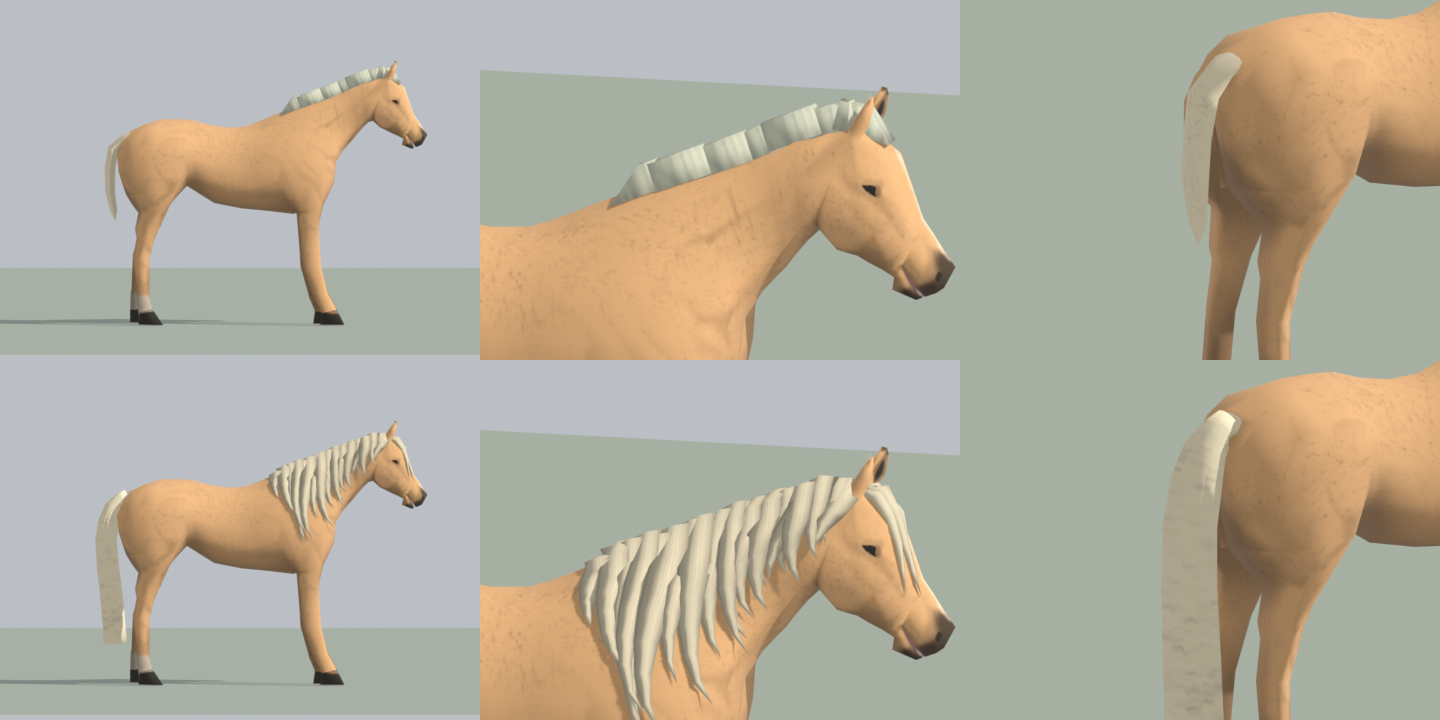
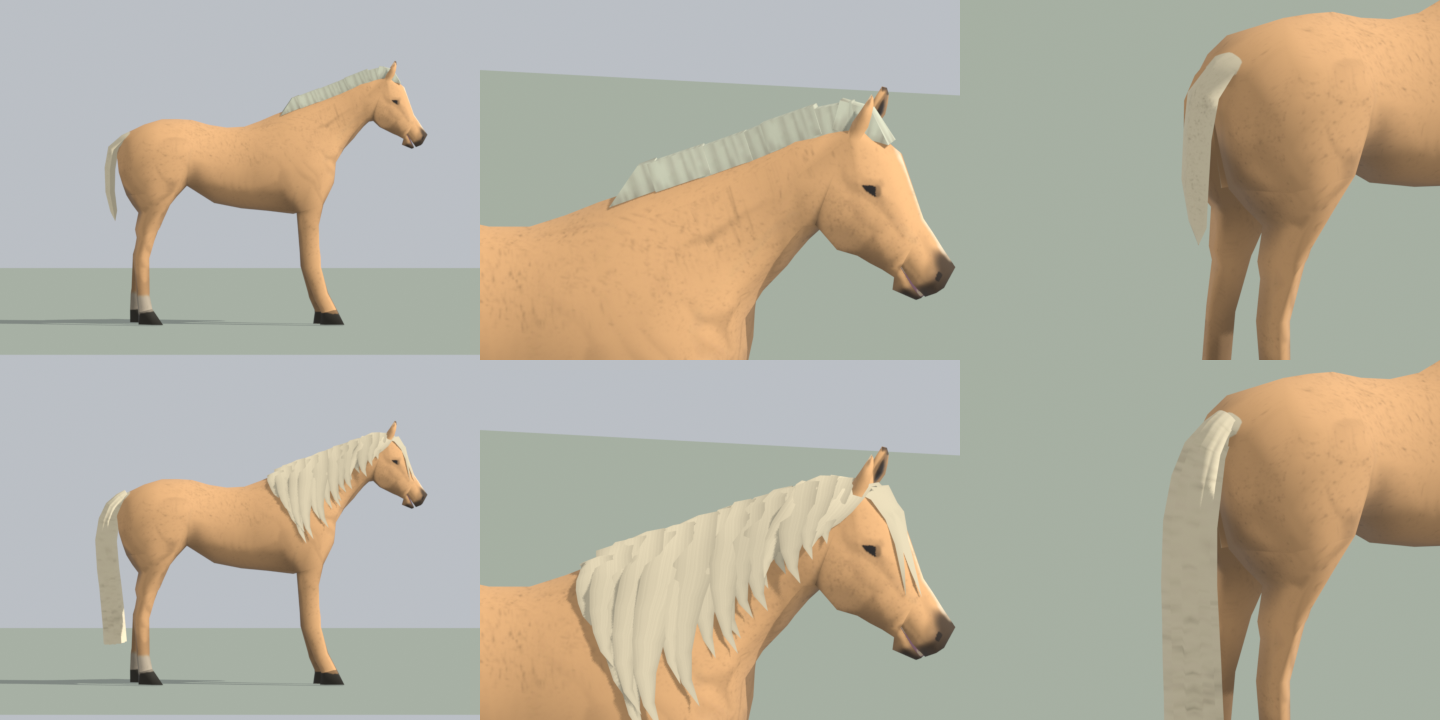
mane shading update

diff --git a/blender/mane.py b/blender/mane.py
@@ -17,7 +17,7 @@ import numpy as np
 
 import glb
 from common import Body, Pose, REFERENCE, MANE_BONES, MANE_FOR_BONE, unit
-from hair import Clump, catmull_rom, merge
+from hair import Clump, catmull_rom
 
 SIDE = -1             # hair falls to -X, the horse's right (off) side
 RINGS = 9             # points along a lock, tip included
@@ -40,9 +40,9 @@ V_CUT = [(0.0, 0.10), (0.30, 0.17), (0.76, 0.33), (1.0, 0.09)]
 LOCKS = {"DEF_ManeStart": [-0.11, -0.05, 0.0, 0.06], "DEF_ManeEnd": [-0.13, -0.08, -0.035]}
 MID_LOCKS = [-0.06, -0.005, 0.05]
 # Every lock gets its own shape from these ranges (seeded, so builds are repeatable):
-LOCK_WIDTH = (0.075, 0.115)   # widest point
-LOCK_SWEEP = (0.30, 0.55)     # how far back along the neck it sweeps, per unit of length
-LOCK_FLICK = (0.04, 0.16)     # how far its tip flicks forwards again, per unit of length
+LOCK_WIDTH = (0.105, 0.145)   # widest point
+LOCK_SWEEP = (0.38, 0.50)     # how far back along the neck it sweeps, per unit of length
+LOCK_FLICK = (0.06, 0.12)     # how far its tip flicks forwards again, per unit of length
 LOCK_JITTER = (-0.05, 0.04)   # added to its hanging length, so the tips are uneven
 SEED = 42
 # the filler under the bend of the locks
@@ -204,7 +204,32 @@ def lock(sections, z_c, length, layer, sweep, flick, width, shape=LOCK_SHAPE, ri
 
     def outward(p, t):
         return unit(np.array([p[0], 0.5 * (p[1] - centre_y), 0.0]))
-    return Clump(path, w, h, across, outward, hair_uv).build()
+    pos, uv, tris = Clump(path, w, h, across, outward, hair_uv).build()
+    return pos, uv, tris, mass_normals(pos, crest)
+
+
+def mass_normals(pos, crest):
+    """Normals of the hair mass rather than of each lock: up on top of the crest, turning
+    to face SIDE (and a little up) down the neck. With every lock's own rounded normals
+    the game's light shades each lock like a shiny tube; with these the locks light
+    together as one soft clump."""
+    k = np.clip((crest - pos[:, 1]) / 0.07, 0, 1)[:, None]
+    top = unit(np.stack([pos[:, 0] / 0.05, np.ones(len(pos)), np.zeros(len(pos))], axis=1))
+    side = unit(np.array([SIDE, 0.25, 0.0]))
+    return unit((1 - k) * top + k * side).astype(np.float32)
+
+
+def merge_with_normals(parts):
+    """Concatenate (positions, uvs, tris, normals) parts into one mesh."""
+    pos, uv, tri, nrm = [], [], [], []
+    base = 0
+    for p, u, t, n in parts:
+        pos.append(p)
+        uv.append(u)
+        tri.append(t + base)
+        nrm.append(n)
+        base += len(p)
+    return np.vstack(pos), np.vstack(uv), np.vstack(tri), np.vstack(nrm)
 
 
 # Forelock locks: (start across the forehead, length down the face, how far round
@@ -241,8 +266,11 @@ def forelock(sections, uv):
 
         def outward(p, t):
             return unit(np.r_[p[:2] - sec.centre(p[2]), 0.0])
-        locks.append(Clump(path, w, h, across, outward, uv).build())
-    return merge(locks)
+        pos, uvs, tris = Clump(path, w, h, across, outward, uv).build()
+        # shaded like the face under it (out from the head), not like a tube
+        normals = np.array([outward(p, None) for p in pos], np.float32)
+        locks.append((pos, uvs, tris, normals))
+    return merge_with_normals(locks)
 
 
 def solve_length(sections, M, z, target_y, layer, sweep, flick):
@@ -293,7 +321,7 @@ def build_pieces():
         filler_len = min(FILLER_LENGTH, 0.7 * min(lengths))
         locks.append(lock(sections, 0.5 * (min(zs) + max(zs)), filler_len, FILLER_LAYER, 0.15, 0.0,
                           span + FILLER_OVERLAP, FILLER_SHAPE, rings=6))
-        pieces[MANE_FOR_BONE[bone]] = merge(locks)
+        pieces[MANE_FOR_BONE[bone]] = merge_with_normals(locks)
     return pieces
 
 

diff --git a/blender/preview.py b/blender/preview.py
@@ -8,7 +8,6 @@ import argparse
 import os
 import sys
 
-import bmesh
 import bpy
 import numpy as np
 
@@ -67,7 +66,8 @@ def material(name, image, tint=None):
     return mat
 
 
-def add_mesh(name, positions, tris, uvs, mat):
+def add_mesh(name, positions, tris, uvs, mat, normals):
+    """Mesh in Blender coordinates, shaded with the file's own normals like the game does."""
     me = bpy.data.meshes.new(name)
     pb = (np.c_[positions, np.ones(len(positions))] @ G2B.T)[:, :3]
     me.from_pydata(pb.tolist(), [], tris.tolist())
@@ -76,12 +76,8 @@ def add_mesh(name, positions, tris, uvs, mat):
     me.loops.foreach_get("vertex_index", loop_vi)
     uvb = np.c_[uvs[:, 0], 1.0 - uvs[:, 1]]
     uvl.data.foreach_set("uv", uvb[loop_vi].reshape(-1))
-    bm = bmesh.new()
-    bm.from_mesh(me)
-    bmesh.ops.remove_doubles(bm, verts=bm.verts, dist=1e-5)
-    bm.to_mesh(me)
-    bm.free()
     me.shade_smooth()
+    me.normals_split_custom_set_from_vertices((np.asarray(normals) @ G2B[:3, :3].T).tolist())
     me.materials.append(mat)
     obj = bpy.data.objects.new(name, me)
     bpy.context.scene.collection.objects.link(obj)
@@ -96,8 +92,9 @@ def build_scene(models, body_name, breed, anim, time):
     pose = Pose(body, anim, time) if anim else Pose(body)
     a = body.attrs
     posed = pose.skin(a["POSITION"].astype(float), a["JOINTS_0"], a["WEIGHTS_0"])
+    posed_normals = pose.skin(a["NORMAL"].astype(float), a["JOINTS_0"], a["WEIGHTS_0"], normals=True)
     body_mat = material("body", os.path.join(HORSE_TEXTURES, f"Horse_{breed}.png"))
-    add_mesh("body", posed, body.indices.reshape(-1, 3), a["TEXCOORD_0"], body_mat)
+    add_mesh("body", posed, body.indices.reshape(-1, 3), a["TEXCOORD_0"], body_mat, posed_normals)
 
     # this mod keeps one mane mesh per bone and its texture next to the HorseMod folder;
     # the Horse mod shares one mesh between the middle bones and uses the vanilla hair texture
@@ -118,7 +115,9 @@ def build_scene(models, body_name, breed, anim, time):
         local[:3, 3] = ATTACH_OFFSET.get(bone, (0, 0, 0))
         M = pose.mats[bone] @ local
         world = (np.c_[pa["POSITION"], np.ones(len(pa["POSITION"]))] @ M.T)[:, :3]
-        add_mesh(bone, world, idx.reshape(-1, 3), pa["TEXCOORD_0"], mane_mat)
+        world_normals = pa["NORMAL"] @ M[:3, :3].T
+        world_normals /= np.linalg.norm(world_normals, axis=1, keepdims=True)
+        add_mesh(bone, world, idx.reshape(-1, 3), pa["TEXCOORD_0"], mane_mat, world_normals)
     # in-game root motion can move the horse; centre it under the cameras
     lowest = posed[:, 1].min()
     for obj in bpy.context.scene.objects:

diff --git a/blender/forelock.py b/blender/forelock.py
@@ -12,15 +12,16 @@ from common import Pose
 
 
 def forelock_part(body, island):
-    """(positions, uvs, tris, joints, weights) of the forelock in the body's bind space."""
+    """(positions, uvs, tris, normals, joints, weights) of the forelock in the body's bind space."""
     frames = mane.bone_frames()
     sections, _, M_end = frames["DEF_ManeEnd"]
-    local, uvs, tris = mane.forelock([sections], island.mapper(2))
+    local, uvs, tris, local_normals = mane.forelock([sections], island.mapper(2))
 
     # where it sits on the idle-posed horse, and the posed skin under it
     pose = Pose(body, *mane.PROFILE_POSE)
     a = body.attrs
     world = (np.c_[local, np.ones(len(local))] @ M_end.T)[:, :3]
+    world_normals = local_normals @ M_end[:3, :3].T
     posed = pose.skin(a["POSITION"].astype(float), a["JOINTS_0"], a["WEIGHTS_0"])
     nearest = np.argmin(np.linalg.norm(posed[None, :, :] - world[:, None, :], axis=2), axis=1)
 
@@ -41,7 +42,10 @@ def forelock_part(body, island):
     # undo the skinning with those same weights to get bind-space positions
     skin = np.stack([pose.mats[n] @ body.ibm[i] for i, n in enumerate(body.joint_names)])
     bind = np.empty_like(world)
+    normals = np.empty_like(world)
     for v in range(len(world)):
-        S = sum(weights[v, k] * skin[joints[v, k]] for k in range(4))
-        bind[v] = (np.linalg.inv(S) @ np.r_[world[v], 1.0])[:3]
-    return bind, uvs, tris, joints, weights
+        S = np.linalg.inv(sum(weights[v, k] * skin[joints[v, k]] for k in range(4)))
+        bind[v] = (S @ np.r_[world[v], 1.0])[:3]
+        n = S[:3, :3] @ world_normals[v]
+        normals[v] = n / np.linalg.norm(n)
+    return bind, uvs, tris, normals.astype(np.float32), joints, weights

diff --git a/blender/mane_texture.py b/blender/mane_texture.py
@@ -37,10 +37,12 @@ def strands():
         c, w, a = rng.uniform(0, SIZE), rng.uniform(0.6, 1.3), rng.uniform(0.3, 1.0)
         d = np.abs((x - c + SIZE / 2) % SIZE - SIZE / 2)
         fine = np.maximum(fine, a * np.exp(-0.5 * (d / w) ** 2))
-    # each lock is darker towards its edges (u = 0 and 1), so neighbouring locks separate
+    # each lock is a little darker towards its edges (u = 0 and 1), so neighbouring locks
+    # separate; kept light, because the tint is multiplied in and a grey texture turns a
+    # white mane grey and makes the locks look like metal
     u = x / SIZE
-    edge = 0.70 + 0.30 * np.sin(np.pi * u) ** 0.7
-    across = (0.88 + 0.12 * fine) * edge
+    edge = 0.88 + 0.12 * np.sin(np.pi * u) ** 0.7
+    across = (0.95 + 0.05 * fine) * edge
 
     v = (np.arange(SIZE) + 0.5) / SIZE
     # strands drift a little sideways along their length so they do not look ruled
@@ -51,7 +53,7 @@ def strands():
         img[row] = np.interp(xs, x, across, period=SIZE)
     # shade the roots, where hair lies under the hair above it
     root = np.clip((v - HAIR_V[0]) / 0.08, 0, 1)
-    img *= (0.78 + 0.22 * root)[:, None]
+    img *= (0.86 + 0.14 * root)[:, None]
     gray = np.clip(img * 255, 0, 255).astype(np.uint8)
     return np.dstack([gray, gray, gray, np.full_like(gray, 255)])
 

diff --git a/blender/build.py b/blender/build.py
@@ -10,7 +10,7 @@ import numpy as np
 
 sys.path.insert(0, os.path.dirname(os.path.abspath(__file__)))
 
-from common import BODIES, MOD_MEDIA, OUT_MANES, OUT_MODELS, REFERENCE, ensure_reference, smooth_normals  # noqa: E402
+from common import BODIES, MOD_MEDIA, OUT_MANES, OUT_MODELS, REFERENCE, ensure_reference  # noqa: E402
 import mane  # noqa: E402
 import mane_texture  # noqa: E402
 import tail  # noqa: E402
@@ -22,9 +22,9 @@ def main():
     os.makedirs(OUT_MANES, exist_ok=True)
     print("texture:", os.path.relpath(mane_texture.build(), MOD_MEDIA))
 
-    for name, (pos, uv, tris) in mane.build_pieces().items():
+    for name, (pos, uv, tris, nrm) in mane.build_pieces().items():
         path = os.path.join(OUT_MANES, name + ".glb")
-        mane.write_piece(path, name, pos, uv, tris, smooth_normals(pos, tris))
+        mane.write_piece(path, name, pos, uv, tris, nrm)
         print(f"{name}: {len(tris)} tris, bounds {np.round(pos.min(0), 3)} .. {np.round(pos.max(0), 3)}")
 
     for body in BODIES:

diff --git a/blender/common.py b/blender/common.py
@@ -117,15 +117,15 @@ class Pose:
         cache = {}
         self.mats = {n: an.world(by_name[n], chans, t, cache) for n in body.joint_names}
 
-    def skin(self, positions, joints, weights):
-        """Linear blend skinning of mesh-space positions."""
+    def skin(self, positions, joints, weights, normals=False):
+        """Linear blend skinning of mesh-space positions (or, with normals=True, directions)."""
         skin_mats = np.stack([self.mats[n] @ self.body.ibm[i] for i, n in enumerate(self.body.joint_names)])
-        hom = np.c_[positions, np.ones(len(positions))]
+        hom = np.c_[positions, np.zeros(len(positions)) if normals else np.ones(len(positions))]
         out = np.zeros((len(positions), 3))
         for k in range(joints.shape[1]):
             m = skin_mats[joints[:, k].astype(int)]
             out += weights[:, k:k + 1] * np.einsum("nij,nj->ni", m, hom)[:, :3]
-        return out
+        return unit(out) if normals else out
 
 
 def unit(v):

diff --git a/blender/tail.py b/blender/tail.py
@@ -279,9 +279,9 @@ def graft(src_path, dst_path, with_forelock=True):
     tnorm = np.vstack([smooth_normals(p, t) for p, _, t in parts])
     tjoints, tweights = skin_weights(body, tpos)
     if with_forelock:
-        fpos, fuv, ftris, fjoints, fweights = forelock_part(body, TailIsland(body))
+        fpos, fuv, ftris, fnorm, fjoints, fweights = forelock_part(body, TailIsland(body))
         ttris = np.vstack([ttris, ftris + len(tpos)])
-        tnorm = np.vstack([tnorm, smooth_normals(fpos, ftris)])
+        tnorm = np.vstack([tnorm, fnorm])
         tpos, tuv = np.vstack([tpos, fpos]), np.vstack([tuv, fuv])
         tjoints, tweights = np.vstack([tjoints, fjoints]), np.vstack([tweights, fweights])
     n_tail = len(tpos)

diff --git a/README.md b/README.md
@@ -33,6 +33,7 @@ Things worth knowing:
 - With one model shared by the five middle bones, a long mane could only be as long everywhere, and the bones near the head tilt differently, so it fanned forwards under the jaw. One model per bone lets every piece fit its own part of the neck, and the V is set as how far each lock's tip hangs below where it roots on the crest (`V_CUT`), solved per lock.
 - Horses do not save their attached items; the Horse mod recreates the manes every session. The per-bone model lives in the mane item's mod data, so nothing of it is saved, and removing this mod brings back the original manes.
 - Every other lock sits a little further out (`LOCK_LAYER`), so overlapping locks stack instead of cutting through each other.
+- The mane and forelock are shaded with the normals of the hair mass, not of each lock (`mass_normals`): up on top of the crest, turning to face the side down the neck, and out from the head for the forelock. With each lock's own rounded normals the game's light shaded every lock like a shiny metal tube; this way they light together as one soft clump. The texture is kept light for the same reason, since the breed tint is multiplied into it.
 - The forelock is in the body mesh rather than on the end mane bone, because that bone turns up to 18° against the head while grazing (10° at the gallop) and lifted the forelock off the face. In the body it is skinned to `DEF_Head`, its root blended into the neck like the skin under it, and it uses the tail strips of the breed texture. Each point is wrapped onto the skin around the head's outline (`NeckSections.wrap`), so it lies on the face even where it flows down the side.
 - Removing the old tail leaves a small opening in the rump; it is capped with two triangles.
 - The tail has only three bones and ends around the hock, so everything below would swing with `DEF_Tail3` like a plank. Its lower part is partly weighted to `DEF_Spine1` (up to 30% at the cut), which makes it trail and droop when the tail lifts.
@@ -55,7 +56,7 @@ The paths to the Horse mod and the game default to this machine's Steam folders;
 
 ### Previews
 
-`preview.py` assembles a horse the way the game does (posed by one of the Horse mod's animations, mane pieces on their bones, breed texture, mane texture and tint) and renders it in Blender:
+`preview.py` assembles a horse the way the game does (posed by one of the Horse mod's animations, mane pieces on their bones, breed texture, mane texture and tint, the models' own normals) and renders it in Blender. Blender's sun casts shadows the game does not, so thin dark lines under the forelock are a preview artefact:
 
 ```bash
 "E:/SteamLibrary/steamapps/common/Blender/blender.exe" --background --factory-startup --python blender/preview.py -- --models "Contents/mods/PZHorseManeAndTailImproved/common/media/models_X/HorseMod" --breed ThoroughbredBay --anim Horse_Gallop.glb --time 0.3 --out blender/_work/gallop.png
